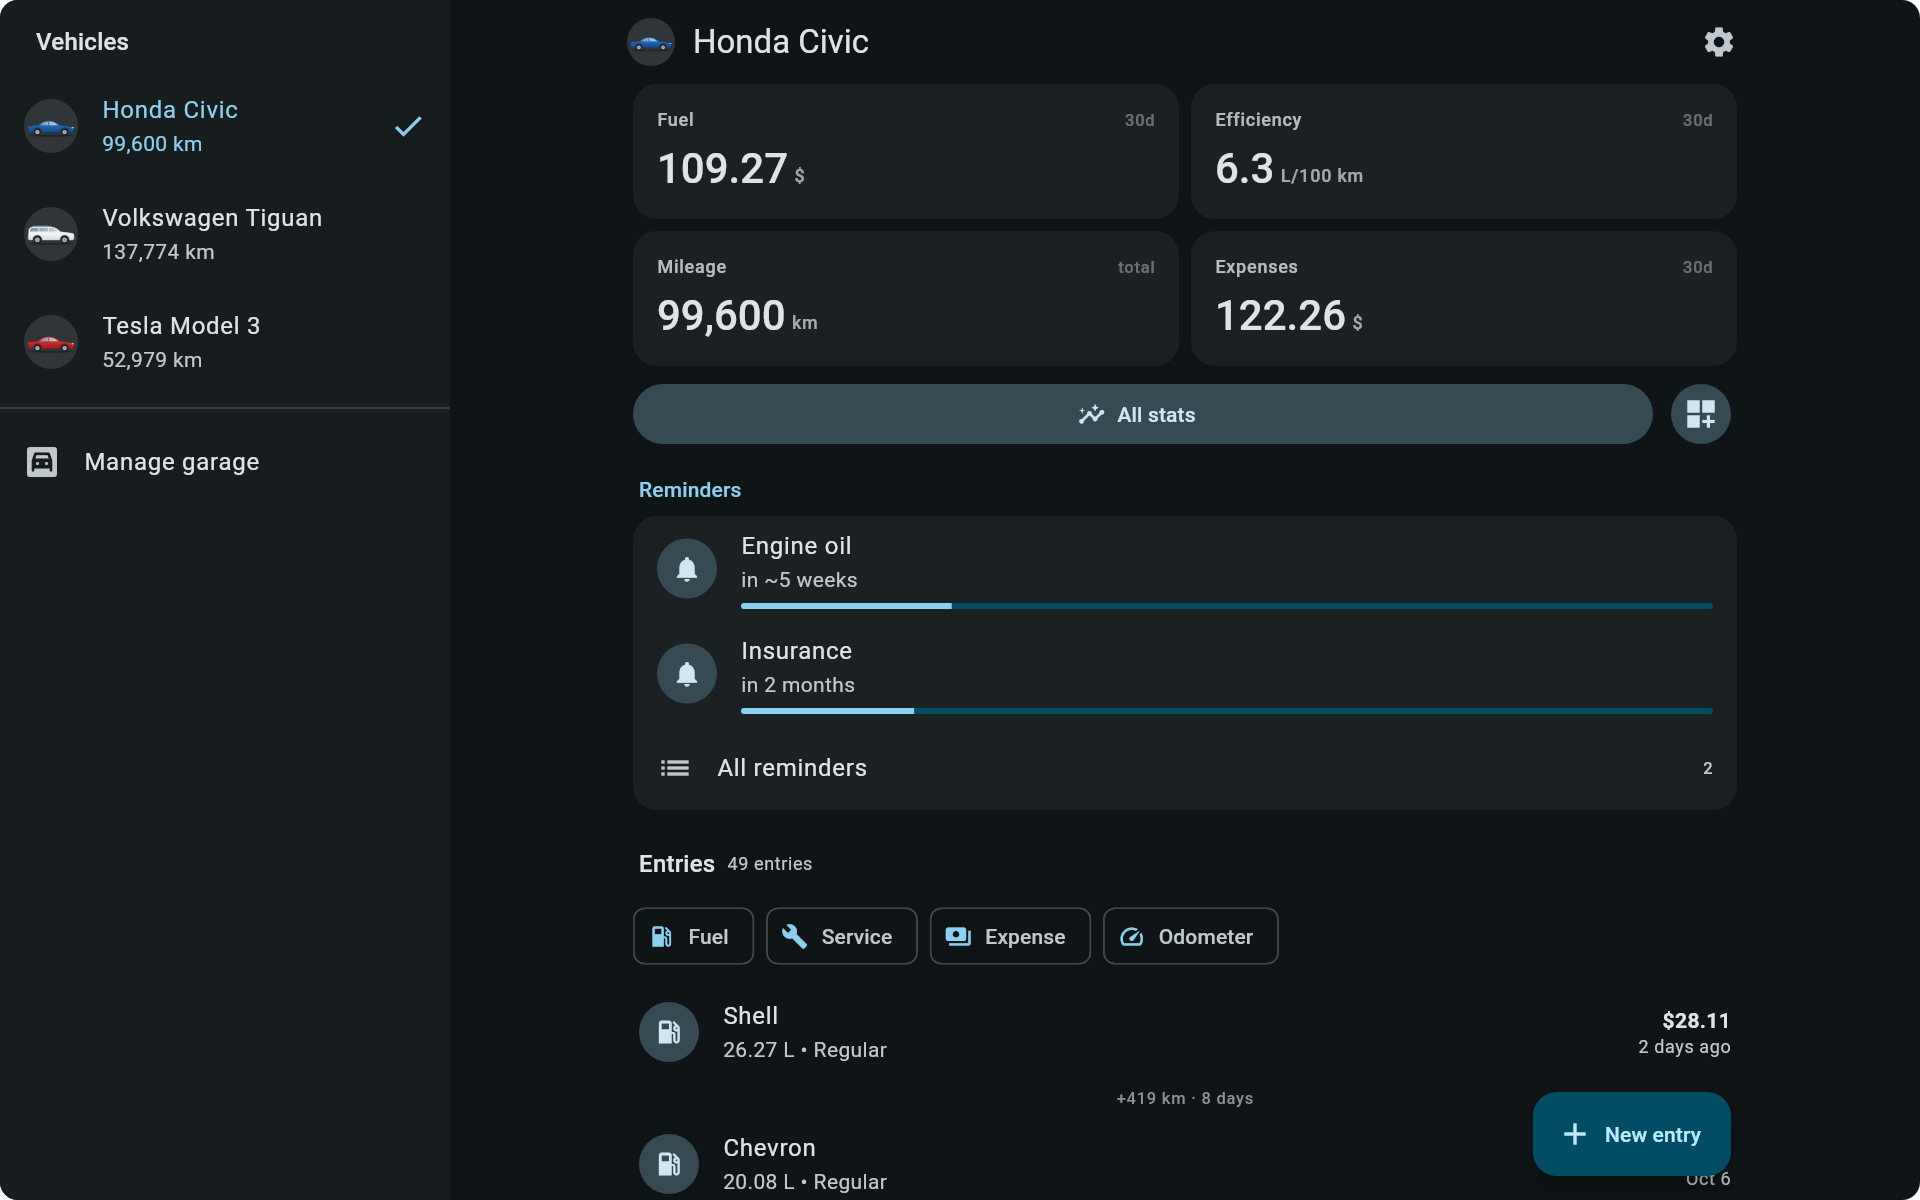
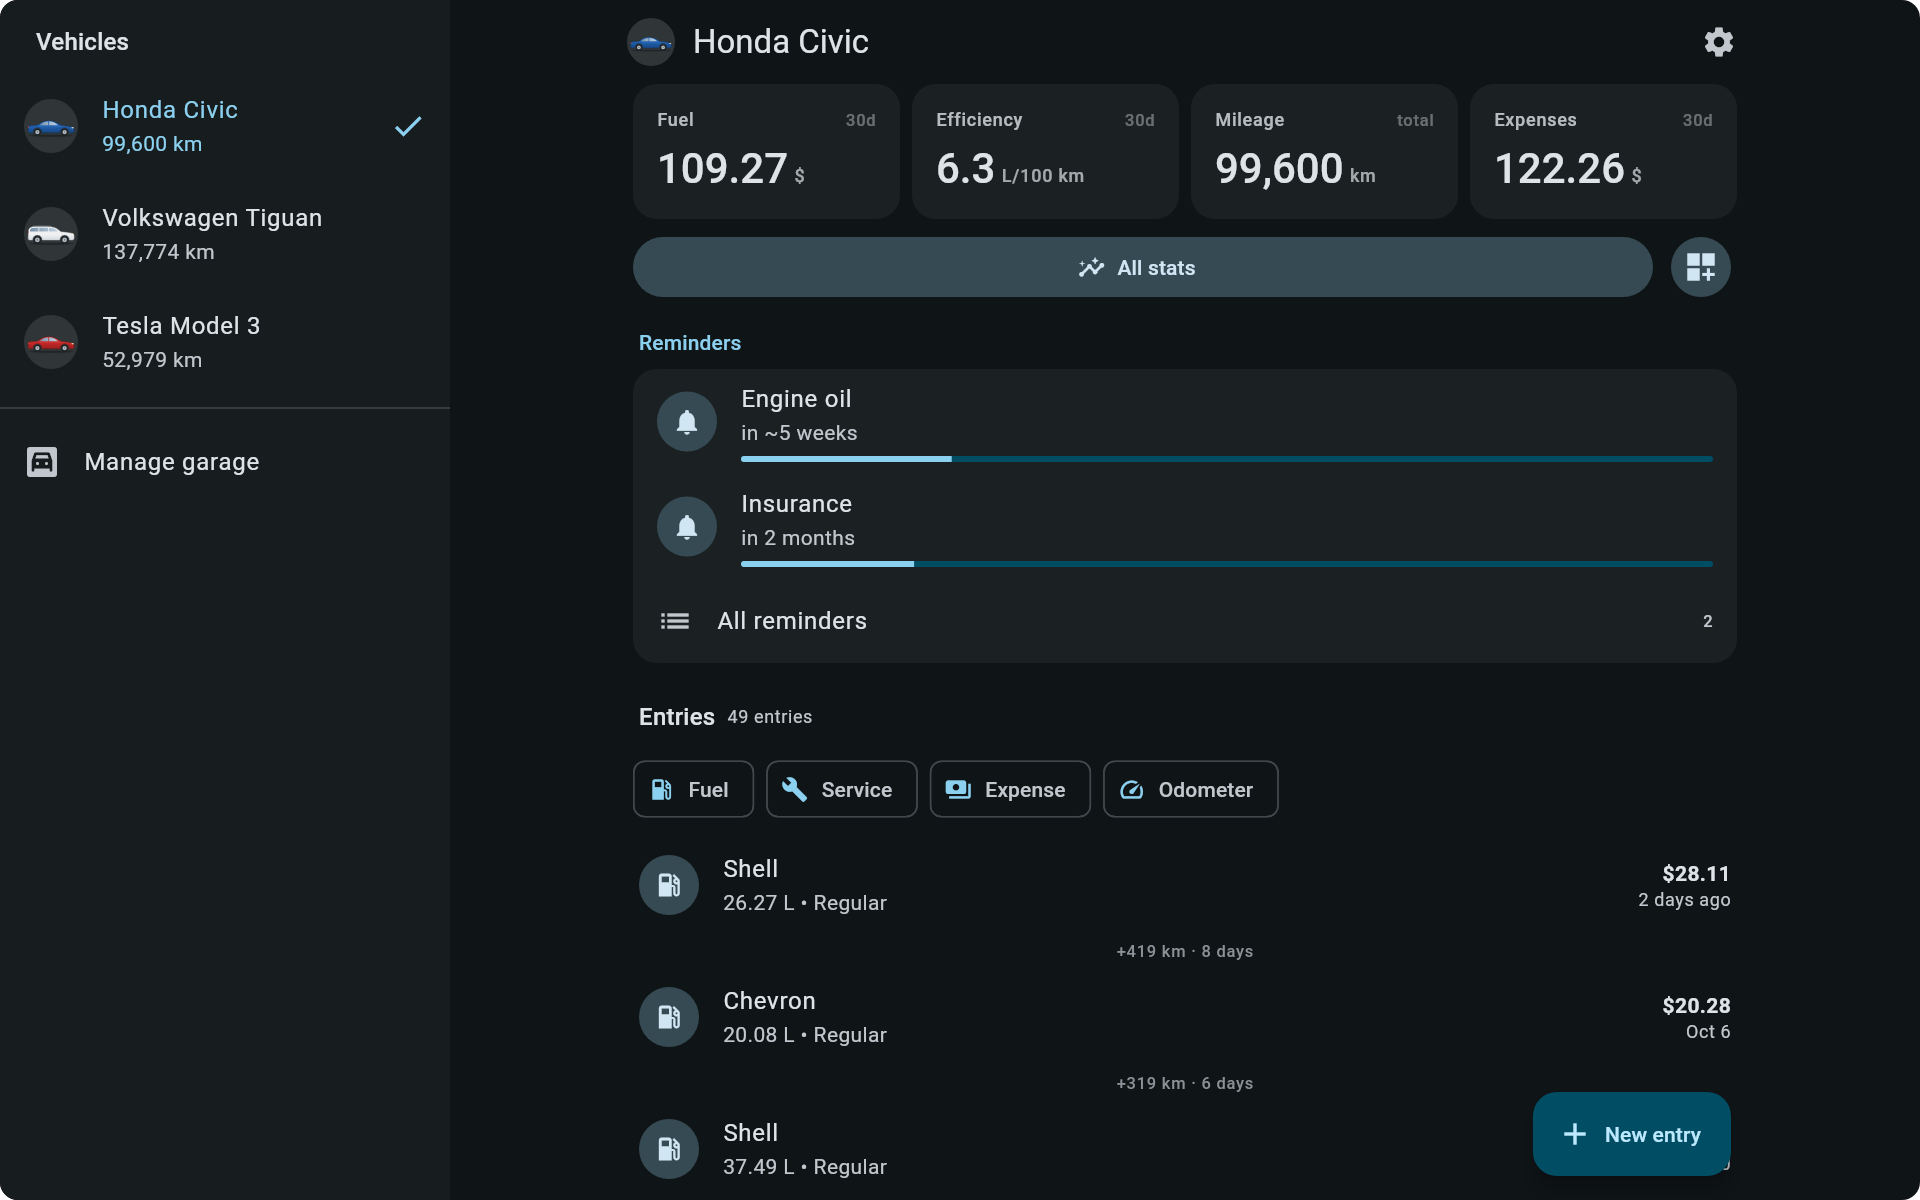
Adaptive home tiles, one-line entries with attachments, entry cost hero
- Home tile grid: 2-4 per row by width.
- Entry list: paperclip after the title; no second line just for it.
- The entry total flies to the details; stat tiles no longer fly to statistics
  (the matching tab opens).
- EmptyState centres itself (empty garage was top-left).
- Changelog 2.9.2; screenshots regenerated.

Claude-Session: https://claude.ai/code/session_01F8422znuTrndrCgUezhEd8

diff --git a/lib/features/home/presentation/home_tiles_view.dart b/lib/features/home/presentation/home_tiles_view.dart
@@ -61,7 +61,7 @@ extension StatsPeriodLabel on StatsPeriod {
   };
 }
 
-/// The configurable grid of stat tiles on the home screen, two per row.
+/// The configurable grid of stat tiles on the home screen: two per row on phones, up to four on wide screens.
 class HomeStatTiles extends ConsumerWidget {
   const HomeStatTiles({super.key, required this.vehicle, required this.entries, required this.onOpenStats});
 
@@ -77,8 +77,6 @@ class HomeStatTiles extends ConsumerWidget {
     if (tiles.isEmpty) return const SizedBox.shrink();
 
     final stats = <StatsPeriod, IntervalStats>{};
-    // Hero tags must be unique on a page; a repeated tile simply doesn't fly.
-    final heroTiles = <HomeTile>{};
     final odometer = currentOdometer(entries, vehicle);
 
     Widget build(int i) {
@@ -86,7 +84,7 @@ class HomeStatTiles extends ConsumerWidget {
       final period = tile.effectivePeriod;
       final s = stats.putIfAbsent(period, () => computeStats(entries, vehicle, period.range));
       final v = homeTileValue(tile, s, odometer, fmt);
-      final statTile = StatTile(
+      return StatTile(
         title: tile.metric.label(l10n, electric: fmt.isElectric),
         period: period.shortLabel(l10n),
         value: v.value,
@@ -98,30 +96,37 @@ class HomeStatTiles extends ConsumerWidget {
           await saveHomeTiles(ref, [...tiles]..[i] = edited);
         },
       );
-      return heroTiles.add(tile) ? Hero(tag: HeroTags.statTile(tile), child: statTile) : statTile;
     }
 
-    return Column(
-      children: [
-        for (var i = 0; i < tiles.length; i += 2) ...[
-          if (i > 0) const SizedBox(height: 8),
-          IntrinsicHeight(
-            child: Row(
-              crossAxisAlignment: CrossAxisAlignment.stretch,
-              children: [
-                Expanded(child: build(i)),
-                if (i + 1 < tiles.length) ...[
-                  const SizedBox(width: 8),
-                  Expanded(child: build(i + 1)),
-                ],
-              ],
-            ),
-          ),
-        ],
-      ],
+    return LayoutBuilder(
+      builder: (context, constraints) {
+        final perRow = tilesPerRow(constraints.maxWidth);
+        return Column(
+          children: [
+            for (var i = 0; i < tiles.length; i += perRow) ...[
+              if (i > 0) const SizedBox(height: 8),
+              IntrinsicHeight(
+                child: Row(
+                  crossAxisAlignment: CrossAxisAlignment.stretch,
+                  children: [
+                    for (var k = i; k < i + perRow; k++) ...[
+                      if (k > i) const SizedBox(width: 8),
+                      // An empty slot keeps a short last row's tiles the same width as the rest.
+                      Expanded(child: k < tiles.length ? build(k) : const SizedBox.shrink()),
+                    ],
+                  ],
+                ),
+              ),
+            ],
+          ],
+        );
+      },
     );
   }
 }
+
+/// Tiles per row for a grid [width]: two on phones, up to four when each still gets ~170 px.
+int tilesPerRow(double width) => ((width + 8) ~/ 178).clamp(2, 4);
 
 Future<void> saveHomeTiles(WidgetRef ref, List<HomeTile> tiles) =>
     ref.read(settingsRepositoryProvider).set(SettingKeys.homeTiles, encodeHomeTiles(tiles));

diff --git a/test/app_smoke_test.dart b/test/app_smoke_test.dart
@@ -10,6 +10,7 @@ import 'package:garage/core/model/enums.dart';
 import 'package:garage/features/backup/data/backup_service.dart';
 import 'package:garage/features/backup/domain/backup_data.dart';
 import 'package:garage/features/backup/domain/sample_data.dart';
+import 'package:garage/features/entries/presentation/entry_list_item.dart';
 import 'package:garage/features/home/domain/home_tiles.dart';
 import 'package:garage/features/settings/data/settings_repository.dart';
 import 'package:garage/features/updates/data/update_service.dart';
@@ -138,7 +139,7 @@ void main() {
     expect(find.textContaining('kWh'), findsWidgets);
   });
 
-  testWidgets('opening an entry and a stat tile flies their heroes', (tester) async {
+  testWidgets('a stat tile opens its tab; an entry flies its icon, title and cost', (tester) async {
     final router = await pumpApp(tester);
     final vid = sample.vehicles.first.id;
     router.go(Routes.home(vid));
@@ -147,10 +148,10 @@ void main() {
     await tester.tap(find.text('Fuel').first);
     await tester.pump();
     await tester.pump(const Duration(milliseconds: 100));
-    // Mid-transition: the page animates in (go_router would otherwise use NoTransitionPage) and the tile flies.
+    // Mid-transition: the page animates in (go_router would otherwise use NoTransitionPage); tiles don't fly.
     final route = ModalRoute.of(tester.element(find.byType(StatsScreen)))!;
     expect(route.animation!.value, inExclusiveRange(0, 1));
-    expect(find.byType(StatTile), findsWidgets);
+    expect(find.descendant(of: find.byType(StatsScreen), matching: find.byType(StatTile)), findsNothing);
     await tester.pump(const Duration(milliseconds: 50));
     expect(tester.takeException(), isNull);
     await settle(tester);
@@ -160,10 +161,14 @@ void main() {
 
     router.pop();
     await settle(tester);
-    await tester.tap(find.byType(ListTile).first);
+    final entry = tester.widget<EntryListItem>(find.byType(EntryListItem).first).entry;
+    Finder costHero() => find.byWidgetPredicate((w) => w is Hero && w.tag == HeroTags.entryCost(entry.id));
+    expect(costHero(), findsOneWidget);
+    await tester.tap(find.byType(EntryListItem).first);
     await tester.pump();
     await tester.pump(const Duration(milliseconds: 150));
     expect(tester.takeException(), isNull);
+    expect(costHero(), findsWidgets, reason: 'the cost flies to the details');
     await settle(tester);
     router.pop();
     await tester.pump();

diff --git a/lib/features/entries/presentation/entry_list_item.dart b/lib/features/entries/presentation/entry_list_item.dart
@@ -50,28 +50,30 @@ class EntryListItem extends StatelessWidget {
         tag: HeroTags.entryIcon(e.id),
         child: IconBadge(icon: e.type.icon(electric: fmt.isElectric), size: 40),
       ),
-      title: HeroText(entryTitle(l10n, e, names, electric: fmt.isElectric), tag: HeroTags.entryTitle(e.id), maxLines: 1),
-      subtitle: details.isEmpty && attachmentCount == 0
-          ? null
-          : Text.rich(
-              TextSpan(
-                children: [
-                  if (attachmentCount > 0) ...[
-                    const WidgetSpan(alignment: PlaceholderAlignment.middle, child: Icon(Icons.attach_file, size: 14)),
-                    const TextSpan(text: ' '),
-                  ],
-                  TextSpan(text: details.join(' • ')),
-                ],
-              ),
-              maxLines: 1,
-              overflow: TextOverflow.ellipsis,
-            ),
+      // The attachment mark sits after the title, so entries without details stay one line.
+      title: Row(
+        children: [
+          Flexible(
+            child: HeroText(entryTitle(l10n, e, names, electric: fmt.isElectric), tag: HeroTags.entryTitle(e.id), maxLines: 1),
+          ),
+          if (attachmentCount > 0) ...[
+            const SizedBox(width: 6),
+            Icon(Icons.attach_file, size: 16, color: theme.colorScheme.onSurfaceVariant),
+          ],
+        ],
+      ),
+      subtitle: details.isEmpty ? null : Text(details.join(' • '), maxLines: 1, overflow: TextOverflow.ellipsis),
       trailing: Column(
         mainAxisAlignment: MainAxisAlignment.center,
         crossAxisAlignment: CrossAxisAlignment.end,
         children: [
           if (e.totalCost != 0)
-            Text(fmt.money(e.totalCost), style: theme.textTheme.bodyMedium?.copyWith(fontWeight: FontWeight.w600)),
+            HeroText(
+              fmt.money(e.totalCost),
+              tag: HeroTags.entryCost(e.id),
+              style: theme.textTheme.bodyMedium?.copyWith(fontWeight: FontWeight.w600),
+              maxLines: 1,
+            ),
           Text(
             fmt.friendlyDate(e.date),
             style: theme.textTheme.bodySmall?.copyWith(color: theme.colorScheme.onSurfaceVariant),

diff --git a/lib/features/stats/presentation/stats_screen.dart b/lib/features/stats/presentation/stats_screen.dart
@@ -54,7 +54,7 @@ class StatsScreen extends ConsumerStatefulWidget {
   final String vehicleId;
   final StatsPeriod initialPeriod;
 
-  /// The home tile that opened the screen; shown above the summary and flown in as a Hero.
+  /// The home tile that opened the screen; the screen opens on the tab that explains it.
   final HomeMetric? focus;
 
   @override
@@ -172,30 +172,11 @@ class _StatsScreenState extends ConsumerState<StatsScreen> {
       resets: ref.watch(reminderResetsProvider(vehicle.id)).value ?? const [],
       reminders: ref.watch(reminderStatusesProvider(vehicle.id)).value ?? const [],
     );
-    final focus = widget.focus;
-    Widget? focusTile;
-    if (focus != null) {
-      final tile = HomeTile(focus, _period);
-      final v = homeTileValue(tile, data.current, currentOdometer(entries, vehicle), fmt);
-      focusTile = Padding(
-        padding: const EdgeInsets.fromLTRB(12, 0, 12, 4),
-        child: Hero(
-          tag: HeroTags.statTile(HomeTile(focus, widget.initialPeriod)),
-          child: StatTile(
-            title: focus.label(l10n, electric: fmt.isElectric),
-            period: _custom != null && focus.hasPeriod ? _customLabel(l10n) : tile.effectivePeriod.shortLabel(l10n),
-            value: v.value,
-            units: v.units,
-          ),
-        ),
-      );
-    }
     final empty = data.current.entryCount == 0 ? l10n.noDataForPeriod : null;
     final tabs = _TabContent(data);
     return NestedScrollView(
       headerSliverBuilder: (context, _) => [
         SliverToBoxAdapter(child: _periodChips(context, entries)),
-        if (focusTile != null) SliverToBoxAdapter(child: focusTile),
         if (empty == null) SliverToBoxAdapter(child: SummaryCard(data: data)),
         SliverOverlapAbsorber(
           handle: NestedScrollView.sliverOverlapAbsorberHandleFor(context),

diff --git a/lib/core/widgets/widgets.dart b/lib/core/widgets/widgets.dart
@@ -331,16 +331,23 @@ class EmptyState extends StatelessWidget {
   @override
   Widget build(BuildContext context) {
     final theme = Theme.of(context);
-    return Padding(
-      padding: const EdgeInsets.symmetric(vertical: 48, horizontal: 24),
-      child: Column(
-        mainAxisSize: MainAxisSize.min,
-        children: [
-          Icon(icon, size: 48, color: theme.colorScheme.outline),
-          const SizedBox(height: 12),
-          Text(text, style: theme.textTheme.bodyMedium?.copyWith(color: theme.colorScheme.onSurfaceVariant), textAlign: TextAlign.center),
-          if (action != null) ...[const SizedBox(height: 16), action!],
-        ],
+    // Centred in whatever space it gets (a whole screen body, or its slot in a list).
+    return Center(
+      child: Padding(
+        padding: const EdgeInsets.symmetric(vertical: 48, horizontal: 24),
+        child: Column(
+          mainAxisSize: MainAxisSize.min,
+          children: [
+            Icon(icon, size: 48, color: theme.colorScheme.outline),
+            const SizedBox(height: 12),
+            Text(
+              text,
+              style: theme.textTheme.bodyMedium?.copyWith(color: theme.colorScheme.onSurfaceVariant),
+              textAlign: TextAlign.center,
+            ),
+            if (action != null) ...[const SizedBox(height: 16), action!],
+          ],
+        ),
       ),
     );
   }

diff --git a/lib/features/entries/presentation/entry_details_screen.dart b/lib/features/entries/presentation/entry_details_screen.dart
@@ -80,7 +80,14 @@ class EntryDetailsScreen extends ConsumerWidget {
             ),
           ),
           if (e.totalCost != 0)
-            Center(child: Text(fmt.money(e.totalCost), style: theme.textTheme.headlineMedium?.copyWith(fontWeight: FontWeight.w500))),
+            Center(
+              child: HeroText(
+                fmt.money(e.totalCost),
+                tag: HeroTags.entryCost(e.id),
+                style: theme.textTheme.headlineMedium?.copyWith(fontWeight: FontWeight.w500),
+                maxLines: 1,
+              ),
+            ),
           const SizedBox(height: 8),
           Island(
             title: l10n.general,

diff --git a/lib/core/widgets/hero_tags.dart b/lib/core/widgets/hero_tags.dart
@@ -4,5 +4,5 @@ abstract final class HeroTags {
   static String entryTitle(String id) => 'entry-title-$id';
   static String reminderIcon(String id) => 'reminder-icon-$id';
   static String reminderTitle(String id) => 'reminder-title-$id';
-  static String statTile(Object key) => 'stat-tile-$key';
+  static String entryCost(String id) => 'entry-cost-$id';
 }

diff --git a/CHANGELOG.md b/CHANGELOG.md
@@ -4,6 +4,14 @@ Each section becomes the notes of the GitHub release with that version
 (`tool/changelog.sh <version>`; see docs/RELEASING.md). Newest first; rename *Unreleased* to the
 version when releasing.
 
+## 2.9.2
+
+- Home screen tiles: up to four in a row on wide screens (web, tablets), two on phones.
+- Entries with attachments show the paperclip after the title, so they stay one line.
+- Opening an entry, its total flies to the details along with the icon and title.
+- A home tile opens its statistics tab without flying the tile over.
+- Empty screens (e.g. an empty garage) show their message in the middle.
+
 ## 2.9.1
 
 - Statistics show money without cents (except small amounts such as cost per km) and shorten large
